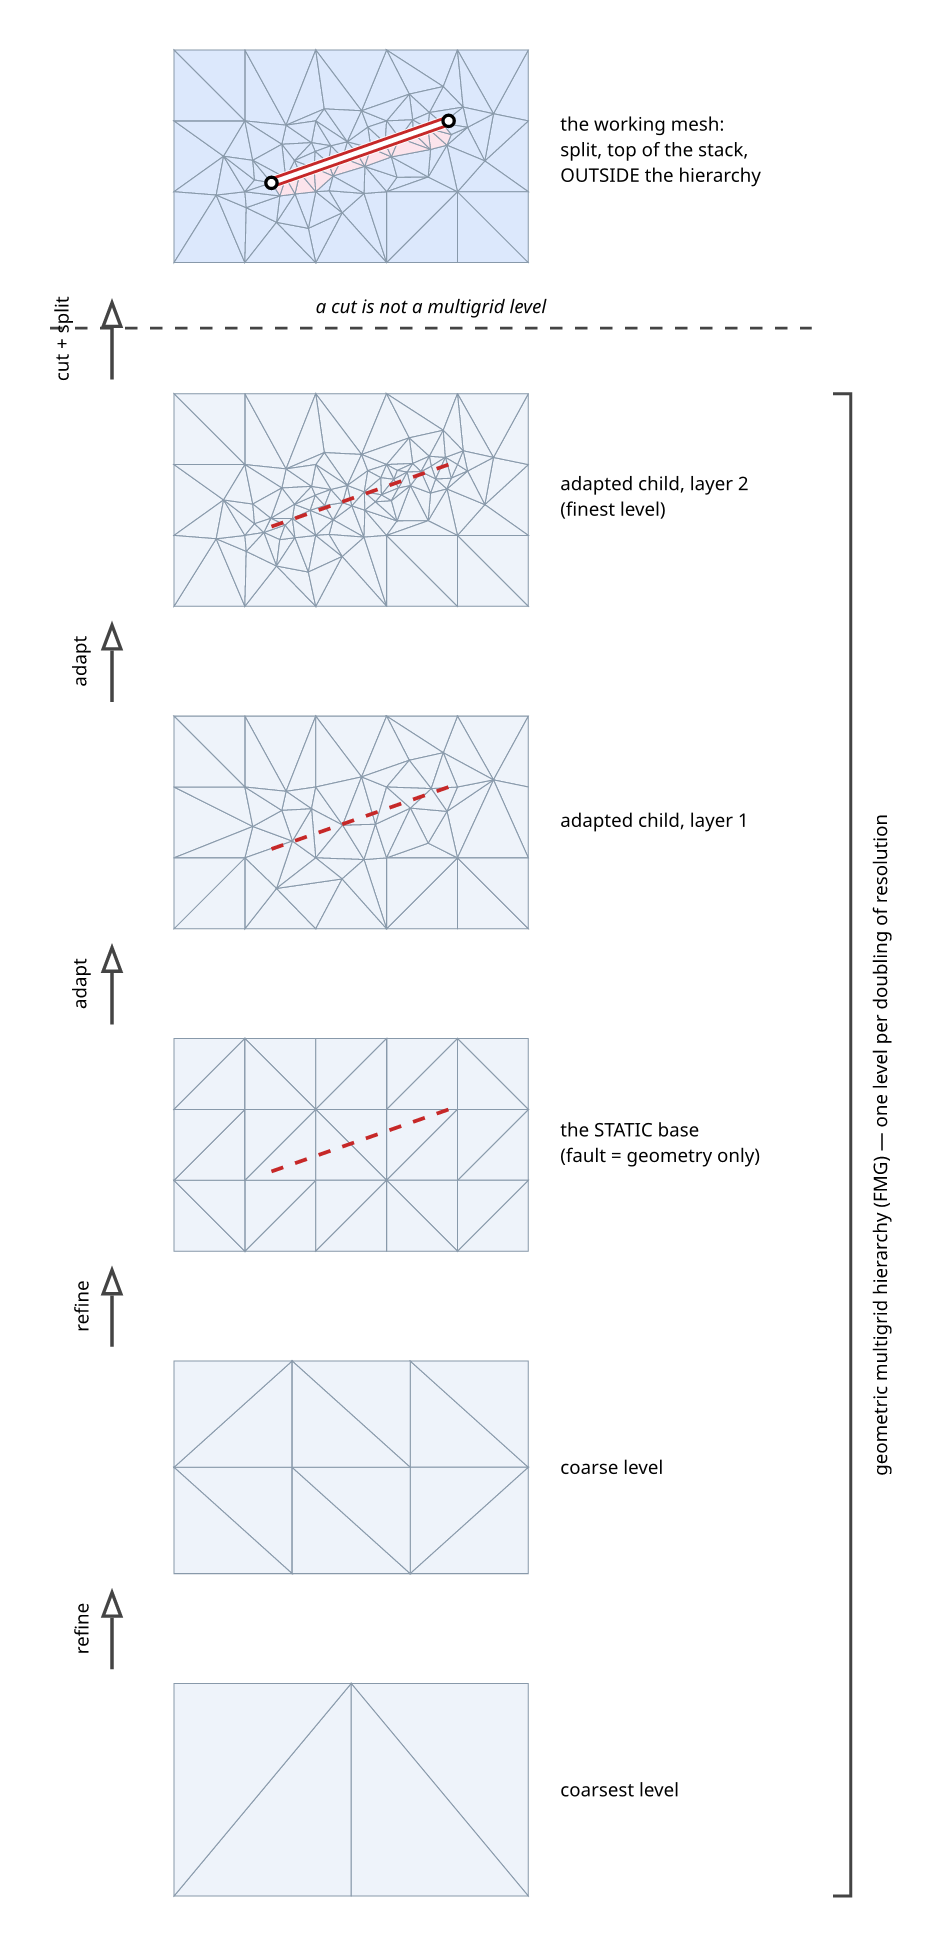
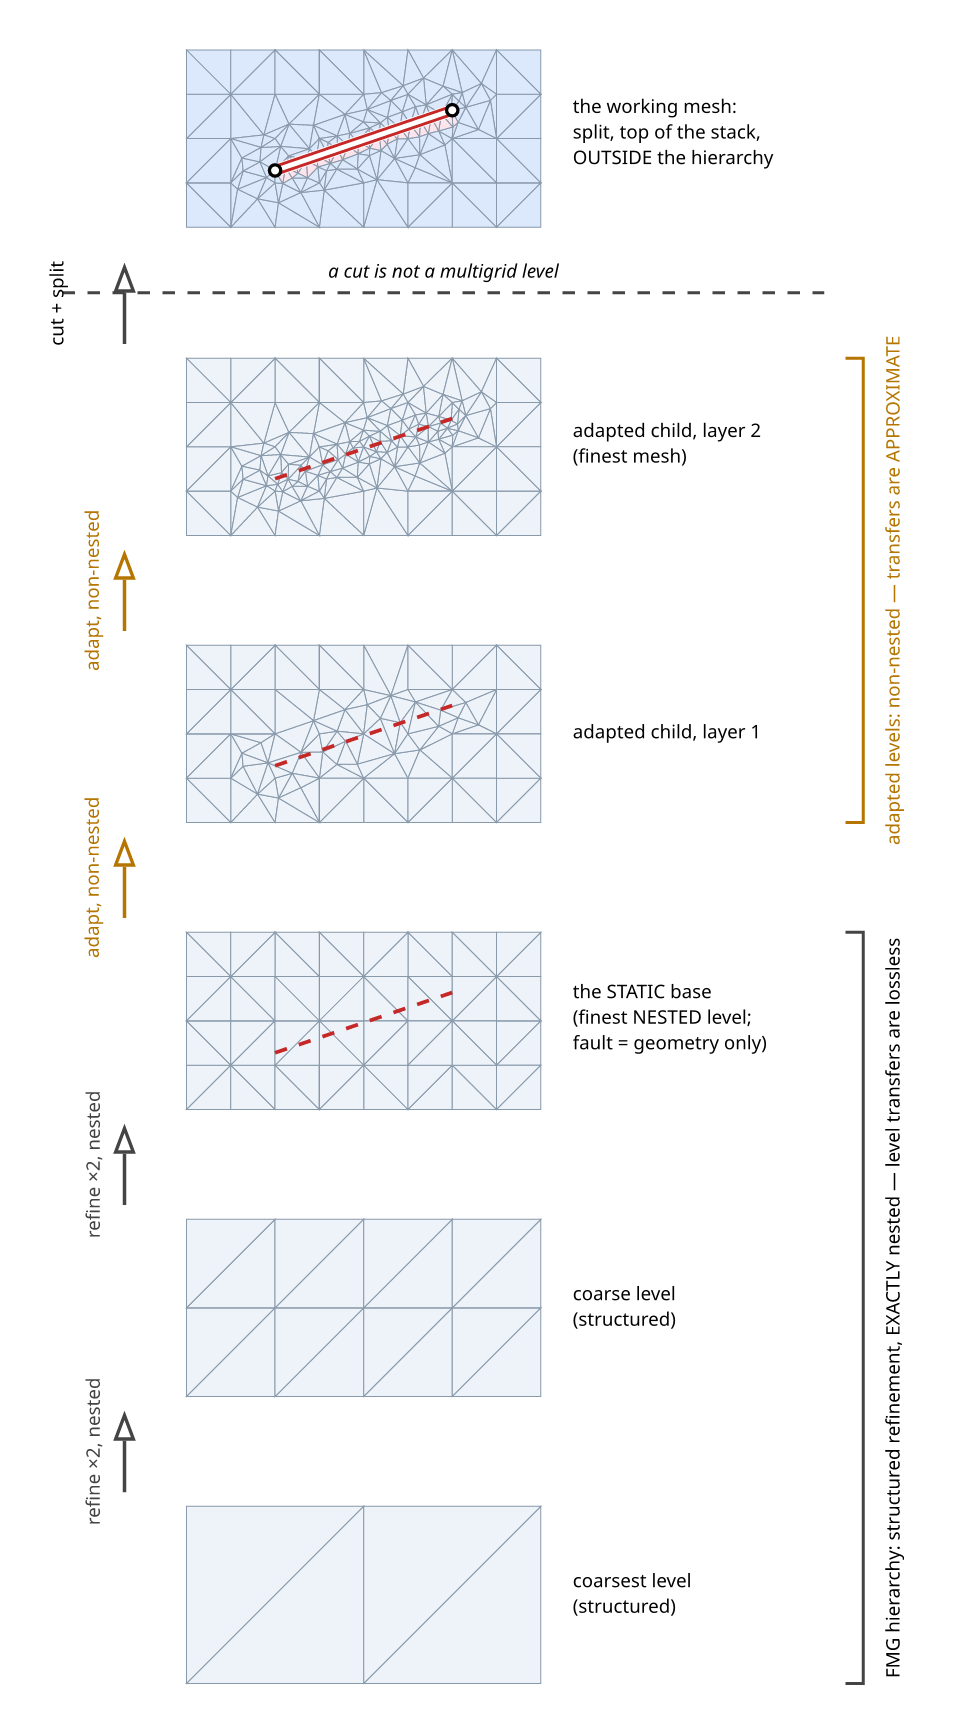
Grid hierarchy: exact nesting below the base, approximation above
The coarse levels are now genuine structured refinements of one
another — the same diagonal-split generator at h = 1.0, 0.5, 0.25 on a
2.0 x 1.0 domain, so midpoint refinement of each level IS the next,
and the generator VERIFIES the nesting (coarse vertices a subset of
fine) rather than assuming it. The single FMG bracket splits in two:
the grey bracket spans the exactly-nested structured levels (lossless
transfers, perfect FMG); an amber bracket and amber "adapt,
non-nested" arrows mark the adapted children, where transfers become
approximate. The stack-progression panels move to the same domain so
the two figures share one base mesh.

Underworld development team with AI support from Claude Code

diff --git a/docs/developer/design/figures/split-node-faults/generate-stack-progression-data.py b/docs/developer/design/figures/split-node-faults/generate-stack-progression-data.py
@@ -14,8 +14,8 @@ import os
 import numpy as np
 from scipy.spatial import Delaunay
 
-A = np.array([0.55, 0.45])
-B = np.array([1.55, 0.80])
+A = np.array([0.50, 0.32])
+B = np.array([1.50, 0.66])
 T = (B - A) / np.linalg.norm(B - A)
 N = np.array([-T[1], T[0]])
 LEN = float(np.linalg.norm(B - A))
@@ -28,7 +28,7 @@ def seg_dist(p):
 
 def grid(h):
     xs = np.arange(0.0, 2.0 + 1e-9, h)
-    ys = np.arange(0.0, 1.2 + 1e-9, h)
+    ys = np.arange(0.0, 1.0 + 1e-9, h)
     return np.array([[x, y] for x in xs for y in ys])
 
 
@@ -40,14 +40,14 @@ def band(h, width):
     contribution, not an accident of the refinement layout."""
     out = []
     xs = np.arange(0.06, 1.95, h)
-    ys = np.arange(0.06, 1.15, h)
+    ys = np.arange(0.05, 0.96, h)
     for i, x in enumerate(xs):
         for j, y in enumerate(ys):
             q = np.array([
                 x + 0.33 * h * np.sin(12.9898 * i + 78.233 * j),
                 y + 0.33 * h * np.sin(39.3460 * i + 11.135 * j)])
             if (seg_dist(q) < width
-                    and 0.03 < q[0] < 1.97 and 0.03 < q[1] < 1.17):
+                    and 0.03 < q[0] < 1.97 and 0.03 < q[1] < 0.97):
                 out.append(q)
     return np.array(out)
 
@@ -72,20 +72,20 @@ def pack(points, tris):
 panels = {}
 
 # (a) base: coarse uniform
-base_pts = grid(0.4)
+base_pts = grid(0.25)
 panels["base"] = pack(*triangulate(base_pts))
 
 # (b) layer 1: base + a coarse band toward the manifold
-l1 = dedup(np.vstack([grid(0.4), band(0.19, 0.30)]), 0.105)
+l1 = dedup(np.vstack([grid(0.25), band(0.125, 0.22)]), 0.07)
 panels["l1"] = pack(*triangulate(l1))
 
 # (c) layer 2: tighter band on top
-l2 = dedup(np.vstack([grid(0.4), band(0.19, 0.32), band(0.085, 0.12)]), 0.048)
+l2 = dedup(np.vstack([grid(0.25), band(0.125, 0.24), band(0.062, 0.10)]), 0.036)
 panels["l2"] = pack(*triangulate(l2))
 
 # (d) cut: clear a corridor around the segment, then place vertices ON it
-keep = np.array([p for p in l2 if seg_dist(p) > 0.065])
-on_seg = np.array([A + s * T for s in np.arange(0.0, LEN + 1e-9, 0.085)])
+keep = np.array([p for p in l2 if seg_dist(p) > 0.048])
+on_seg = np.array([A + s * T for s in np.arange(0.0, LEN + 1e-9, 0.062)])
 cut_pts = np.vstack([keep, on_seg])
 cut_pts, cut_tris = triangulate(cut_pts)
 panels["cut"] = pack(cut_pts, cut_tris)
@@ -102,7 +102,7 @@ for t in cut_tris:
     inside = 0.0 < (cen - A) @ T < LEN
     side.append(-1 if ((cen - (A + s * T)) @ N < 0 and touches and inside)
                 else +1)
-DELTA = 0.085
+DELTA = 0.06
 exploded = [list(p) for p in cut_pts]
 replicas = {}
 for v in interior:

diff --git a/docs/developer/design/figures/split-node-faults/generate-grid-hierarchy-data.py b/docs/developer/design/figures/split-node-faults/generate-grid-hierarchy-data.py
@@ -1,24 +1,45 @@
 """Coarse FMG levels for the grid-hierarchy figure.
 
-The base mesh of the stack-progression figure is itself the finest level
-of a geometric (FMG) hierarchy; this generator adds the two coarser
-levels below it (~2x spacing per level, endpoints exact). The refined
-children and the cut come from stack-progression-data.json.
+The base mesh (h = 0.25 on a 2.0 x 1.0 domain) is the finest level of a
+geometric hierarchy built by STRUCTURED refinement: the coarse levels at
+h = 0.5 and h = 1.0 come from the same diagonal-split quad generator, so
+midpoint (regular) refinement of each level IS the next — the nesting is
+exact, and this script VERIFIES it (every coarse vertex coincides with a
+fine one) rather than assuming it.
 """
 import json
 import os
 
 import numpy as np
-from scipy.spatial import Delaunay
 
 
-def level(nx, ny):
-    pts = np.array([[x, y] for x in np.linspace(0.0, 2.0, nx)
-                    for y in np.linspace(0.0, 1.2, ny)])
-    return dict(coords=pts.tolist(), tris=Delaunay(pts).simplices.tolist())
+def level(h):
+    xs = np.arange(0.0, 2.0 + 1e-9, h)
+    ys = np.arange(0.0, 1.0 + 1e-9, h)
+    idx, pts = {}, []
+    for i, x in enumerate(xs):
+        for j, y in enumerate(ys):
+            idx[(i, j)] = len(pts)
+            pts.append([x, y])
+    tris = []
+    for i in range(len(xs) - 1):
+        for j in range(len(ys) - 1):
+            a, b = idx[(i, j)], idx[(i + 1, j)]
+            c, d = idx[(i + 1, j + 1)], idx[(i, j + 1)]
+            tris.extend([[a, b, c], [a, c, d]])
+    return dict(coords=pts, tris=tris)
 
 
-out = dict(coarse2=level(3, 2), coarse1=level(4, 3))
+out = dict(coarse2=level(1.0), coarse1=level(0.5))
+
+# exact-nesting check: every coarse vertex is a fine vertex (bit-exact
+# up to the arange rounding), level by level down to the base
+fine = level(0.25)
+for name in ("coarse1", "coarse2"):
+    coarse_set = {tuple(np.round(p, 12)) for p in out[name]["coords"]}
+    fine_set = {tuple(np.round(p, 12)) for p in fine["coords"]}
+    assert coarse_set <= fine_set, f"{name} not nested in the base"
+print("nesting exact: coarse2 < coarse1 < base")
 here = os.path.dirname(os.path.abspath(__file__))
 with open(os.path.join(here, "grid-hierarchy-data.json"), "w") as f:
     json.dump(out, f)

diff --git a/docs/developer/design/SPLIT_NODE_FAULT_METHOD_2026-08.md b/docs/developer/design/SPLIT_NODE_FAULT_METHOD_2026-08.md
@@ -145,12 +145,15 @@ same base — the operation is non-cumulative by construction.*
 
 ![The grid hierarchy](figures/split-node-faults/grid-hierarchy.png)
 
-*Fig. 5 — the same stack seen as a solver hierarchy. The static base is
-itself the finest level of a geometric (FMG) hierarchy, and the adapted
-children extend that hierarchy upward — one level per doubling of
-resolution. The cut + split working mesh sits on top of the stack but
-OUTSIDE the hierarchy: a cut is not a multigrid level, and the coarse
-levels never carry the fault.*
+*Fig. 5 — the same stack seen as a solver hierarchy. Below the base the
+refinement is STRUCTURED and exactly nested (each level is the regular
+refinement of the one beneath — the nesting in the drawing is generated,
+and verified, not sketched), so level transfers are lossless: perfect
+FMG. The adapted children above the base are non-nested, and their
+transfers are approximate — that is where the approximation begins. The
+cut + split working mesh sits on top of the stack but OUTSIDE the
+hierarchy: a cut is not a multigrid level, and no level below it ever
+carries the fault.*
 
 ### 3.1 Input contract and provenance
 
